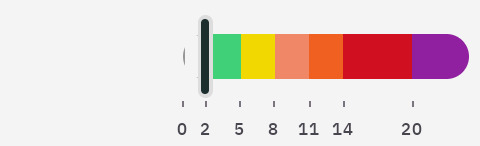
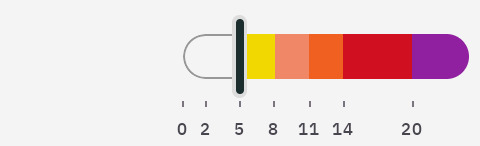
docs(algorithms): add the grade map row to the emphasis table

Changed region(s): [[0.375, 0.1096, 0.5312, 0.6575]]

diff --git a/docs/algorithms.md b/docs/algorithms.md
@@ -36,16 +36,26 @@ Every segment now has a grade, and Emphasis sets the grade at which color starts
 
 <table>
   <tr>
+    <td></td>
     <td align="center">Handles met at the flat band: every band takes a color</td>
     <td align="center">The default: the flat band between the handles stays quiet</td>
     <td align="center">Karoo colors no descents, so its bar has a climb handle only</td>
   </tr>
   <tr>
+    <td>Profile</td>
     <td align="center"><img src="screenshots/emphasis_all.jpg" alt="Barberfish palette bar with both handles at -2 percent, so every band from the flat band up and every descent band is colored"></td>
-    <td align="center"><img src="screenshots/emphasis_default.jpg" alt="Barberfish palette bar with the climb handle at 2 percent and the descent handle at -2 percent, the flat band between them greyed out"></td>
-    <td align="center"><img src="screenshots/emphasis_climbs.jpg" alt="Karoo palette bar starting at 0 percent with a single climb handle at 2 percent and no descent side"></td>
+    <td align="center"><img src="screenshots/emphasis_default.jpg" alt="Barberfish palette bar with the climb handle at 2 percent and the descent handle at -2 percent, the flat band between them an empty outline"></td>
+    <td align="center"><img src="screenshots/emphasis_climbs.jpg" alt="Karoo palette bar starting at 0 percent with a single climb handle at 5 percent, the stretch below it an empty outline, and no descent side"></td>
+  </tr>
+  <tr>
+    <td>Grade map</td>
+    <td align="center"><img src="screenshots/emphasis_map_all.jpg" alt="The same Barberfish bar as the Grade Map card shows it: every band colored, so no neutral appears"></td>
+    <td align="center"><img src="screenshots/emphasis_map_default.jpg" alt="Barberfish bar as the Grade Map card shows it: the flat band between the handles painted in the map's green-grey neutral"></td>
+    <td align="center"><img src="screenshots/emphasis_map_climbs.jpg" alt="Karoo bar as the Grade Map card shows it: the stretch from 0 to 5 percent painted in the map's plain grey neutral"></td>
   </tr>
 </table>
+
+The two rows are the same handles on the two surfaces. The Profile leaves the quiet stretch as an outline, because it paints nothing there and its silhouette shows through; the grade map paints it in the neutral it uses on the road, the flat band's green-grey on Barberfish and Surgeonfish and a plain grey on every other palette.
 
 What a handle can reach depends on the palette, which is why the [palettes page](color-palettes.md#grade-palettes) lists two properties per palette. A descent handle exists only on a palette that colors descents (Barberfish, Surgeonfish, Turbo); on the others no descent takes a color anywhere, and the bar has a climb handle only. And on a palette whose flat band spans zero (Barberfish, Surgeonfish), the climb handle has one more stop, at the lower edge of that band, which colors the flat band too and puts every color in the palette on the road. A palette whose bands start at zero has no such stop, because its flat band is already the first climb band.
 
